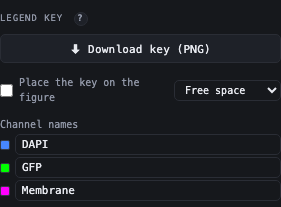
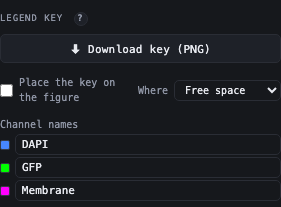
Fluorescence guide, round 5: four channels with far-red grey and indicators named, a channel renamed on its panel reaching its merge and caption, naming a merge's channels, Tab between inset fields, the Where menu

Changed region(s): [[0.0569, 0.4348, 0.2847, 0.4928], [0.427, 0.3768, 0.5979, 0.4638]]

diff --git a/docs/guides/verify/fluorescence.verify.js b/docs/guides/verify/fluorescence.verify.js
@@ -301,8 +301,12 @@ const { step, expect, btn } = L;
     const chips1 = await p.locator('#img-list > .img-item').filter({ hasNotText: 'hidden' }).locator('button.f-chan-chip').allInnerTexts();
     expect(chips1.filter(c => c === 'CellMask').length === 1 && chips1.includes('Membrane'), 'chips ' + chips1);
     // fluor5-02: the merge showing the same file takes the name too, and the toast says so
-    expect(/^Panel \w+'s channel is now CellMask — this panel only(; merge \w+ takes it for the same file’s channel)?; the other magenta panels \([^)]*\) keep Membrane\. ≡ Sync by channel now treats it as its own channel\. To rename every magenta panel, type the name under Export › Legend key › Channel names\./.test(t), 'toast: ' + t);
+    expect(/^Panel C's channel is now CellMask — this panel only; merge D takes it for the same file’s channel; the other magenta panels \(E, H, I, J\) keep Membrane\. ≡ Sync by channel now treats it as its own channel\. To rename every magenta panel, type the name under Export › Legend key › Channel names\./.test(t), 'toast: ' + t);
+    // round 5 (fluor5-01/02): the caption follows — the panel's Split-filled caption note and its merge
     await L.openSection(T, 'Export');
+    await btn(T, '✦ Generate Caption').click(); await p.waitForTimeout(600);
+    const capR = await p.locator('#caption-out').inputValue();
+    expect(/\(C\) CellMask \(magenta\)\./.test(capR) && /\(D\) Merge of DAPI \(blue\), GFP \(green\) and CellMask \(magenta\)/.test(capR) && /\(H\) Membrane \(magenta\)\./.test(capR), 'caption after the one-panel rename: ' + capR.slice(0, 700));
     const f = p.getByLabel('Name of the magenta channel');
     const both = await f.inputValue();
     // ISSUES (round 4), fixed in round 5: typing the name the other panels already have
@@ -318,7 +322,11 @@ const { step, expect, btn } = L;
     await closeAllSettings();
     const k2 = await keyText();
     expect(k2 === 'DAPI (blue); GFP (green); Membrane (magenta).', 'key text after: ' + k2);
-    return `toast "${t}"; key "${k1}"; Channel names field "${both}"; Membrane typed there: "${kSame}"; chip back to Membrane: "${k2}"`;
+    await L.openSection(T, 'Export');
+    await btn(T, '✦ Generate Caption').click(); await p.waitForTimeout(600);
+    const capB = await p.locator('#caption-out').inputValue();
+    expect(/\(C\) Membrane \(magenta\)\./.test(capB) && /\(D\) Merge of DAPI \(blue\), GFP \(green\) and Membrane \(magenta\)/.test(capB) && !/CellMask/.test(capB), 'caption after uniting: ' + capB.slice(0, 700));
+    return `toast "${t}"; caption "(C) CellMask (magenta)" and "(D) Merge of … CellMask (magenta)"; key "${k1}"; Channel names field "${both}"; Membrane typed there: "${kSame}"; caption back to Membrane; chip back to Membrane: "${k2}"`;
   });
 
   await step(T, '12. Colour-blind view › Deuteranopia (screen only), then back to Normal vision', async () => {
@@ -422,6 +430,9 @@ const { step, expect, btn } = L;
     expect(/The legend key needed free space, so the right margin grew from 16 to \d+ px/.test(t1), 'toast: ' + t1);
     const opts = await p.locator('#key-where option').allInnerTexts();
     expect(opts.join('|') === 'Free space|Top right|Top left|Bottom right|Bottom left|Right edge|Below', opts.join('|'));
+    // round 5: the place menu has a visible "Where" label
+    const whereLab = (await p.locator('label[for="key-where"]').innerText()).trim();
+    expect(whereLab === 'Where' && await p.locator('label[for="key-where"]').isVisible(), 'Where label: ' + whereLab);
     await L.openSection(T, 'Check');
     await btn(T, '✓ Check journal compliance').click();
     const rep = p.locator('#info-modal-bg'); await rep.waitFor({ state: 'visible' });
@@ -625,6 +636,15 @@ const { step, expect, btn } = L;
     await set('Name of the magenta channel', 'mScarlet-Parkin'); await set('Name of the green channel', 'mito-GFP (OMP25)');
     await btn(T, '⟳ Render').click(); await p.waitForTimeout(600);
     const fit = await p.evaluate(() => images.filter(im => im && im._tagFit && !im.hidden).map(im => formatLabel(im.label) + ' ' + im._tagFit));
+    // round 5 (fluor5-03): a merge's tag keeps clear of the inset outline drawn on it, and of its letter
+    const over = await p.evaluate(() => {
+      const ov = (a, b) => Math.min(a.x + a.w, b.x + b.w) - Math.max(a.x, b.x) > 1 && Math.min(a.y + a.h, b.y + b.h) - Math.max(a.y, b.y) > 1;
+      const tags = figTextItems.filter(t => t.kind === 'tag');
+      return { frames: _insetFrames.map(f => formatLabel(images[f.parentIdx].label)),
+        hits: _insetFrames.flatMap(f => tags.filter(t => t.idx === f.parentIdx && (ov(t.bbox, f) || (f.lbox && ov(t.bbox, f.lbox)))).map(t => t.str)) };
+    });
+    expect(over.frames.sort().join() === 'D,I' && !over.hits.length, 'tags over inset outlines: ' + JSON.stringify(over));
+    expect(fit.includes('D merge') && fit.includes('I merge'), 'D and I do not read "Merge": ' + fit);
     await L.openSection(T, 'Check');
     await btn(T, '✓ Check journal compliance').click();
     const rep = p.locator('#info-modal-bg'); await rep.waitFor({ state: 'visible' });
@@ -647,6 +667,155 @@ const { step, expect, btn } = L;
     await r.locator('button', { hasText: '×' }).first().click(); await p.waitForTimeout(400);
     expect(chip === 'mScarlet', 'chip ' + chip);
     return 'chip ' + chip;
+  });
+
+  // ---- Four channels (round 5: fluor5-05, -06, -02, -12, -13, -07). A new figure of one field:
+  // DAPI | GCaMP6s | mCherry | Cy5. Cy5 is grey, GCaMP6s keeps its name, the merge of four warns.
+  const keyText4 = () => p.evaluate(() => (document.getElementById('key-text').value || document.getElementById('key-text').textContent).trim());
+  const caption4 = async () => { await L.openSection(T, 'Export'); await btn(T, '✦ Generate Caption').click(); await p.waitForTimeout(600); return p.locator('#caption-out').inputValue(); };
+  const report = async () => {
+    await L.openSection(T, 'Check'); await btn(T, '✓ Check journal compliance').click();
+    const rep = p.locator('#info-modal-bg'); await rep.waitFor({ state: 'visible' });
+    const txt = await rep.innerText(); await p.keyboard.press('Escape');
+    const rowOf = (lab) => ((txt.match(new RegExp('\\n(.)\\n' + lab + '\\n([^\\n]*)')) || []).slice(1).join(' '));
+    return rowOf;
+  };
+  await step(T, '20. Four channels: ✕ New; DAPI, GCaMP6s, mCherry, Cy5 › 🎨 Auto-channels (Cy5 grey, GCaMP6s keeps its name) › ⊕ Merge: "(blue + green + magenta + grey)", and Channels per merge warns', async () => {
+    await btn(T, '✕ New').click(); await btn(T, /^Confirm/).click(); await p.waitForTimeout(600);
+    // a journal first: with none, a compliance row that passes is not listed
+    await L.openSection(T, 'Look'); await p.locator('#target-journal').selectOption({ label: 'eLife' }); await p.waitForTimeout(500);
+    const f4 = [
+      I.fluorTiff(path.join(inp, 'C1-Neuron_shCtrl_DAPI.tif'), 'DAPI', { seed: 31 }),
+      I.fluorTiff(path.join(inp, 'C2-Neuron_shCtrl_GCaMP6s.tif'), 'GFP', { seed: 31 }),
+      I.fluorTiff(path.join(inp, 'C3-Neuron_shCtrl_mCherry.tif'), 'CellMask', { seed: 31 }),
+      I.fluorTiff(path.join(inp, 'C4-Neuron_shCtrl_Cy5.tif'), 'DAPI', { seed: 81 }),
+    ];
+    await L.pickFiles(T, p.getByText('Drop or click to add images'), f4);
+    await p.waitForFunction(() => images.filter(Boolean).length === 4, null, { timeout: 30000 });
+    const tip = btn(T, 'Got it'); if (await tip.count()) await tip.click();
+    await btn(T, 'Auto-channels').click(); await p.waitForTimeout(500);
+    const t0 = await toast();
+    const chips = await p.locator('#img-list button.f-chan-chip').allInnerTexts();
+    const luts = await p.evaluate(() => images.filter(Boolean).map(im => im.lut).join(','));
+    expect(t0 === 'Assigned channels to 4 panels from filenames', 'Auto-channels toast: ' + t0);
+    expect(chips.join(',') === 'DAPI,GCaMP6s,mCherry,Cy5' && luts === 'blue,green,magenta,none', 'chips ' + chips + ' luts ' + luts);
+    // evidence for ISSUES: how the caption names the grey Cy5 panel before any merge
+    const cap0 = await caption4();
+    const greyCap = (cap0.match(/\(D\) [^.]*\./) || [''])[0];
+    for (const r of await p.locator('#img-list > .img-item').all()) await r.locator('input.panel-pick').check();
+    await btn(T, '⊕ Merge channels').click(); await p.waitForTimeout(800);
+    const t1 = await toast();
+    expect(/^A, B, C, D merged into A \(blue \+ green \+ magenta \+ grey\)/.test(t1), 'merge toast: ' + t1);
+    const rowOf = await report();
+    const cpm = rowOf('Channels per merge');
+    expect(/^⚠ A \(4\) — QUAREP-LiMi checklist: at most 3 channels in a merge, preferably 2; show the rest as separate greyscale panels/.test(cpm), 'Channels per merge: ' + cpm);
+    return `chips ${chips.join(', ')} (Cy5 ${luts.split(',')[3]}); "${t0}"; caption of the unmerged Cy5 panel "${greyCap}"; "${t1.split(' — ')[0]}"; Channels per merge ${cpm}`;
+  });
+
+  await step(T, '20b. ⑃ Split, Columns 5 › Channel names: the Cy5 field › MAP2 — caption "(grey)", Methods "in greyscale"; the split GCaMP6s chip › GCaMP6f renames it in the merge too', async () => {
+    const st = await openSettings(row('A'));
+    await st.locator('button', { hasText: '⑃ Split channels into panels' }).click(); await p.waitForTimeout(1000);
+    await closeAllSettings();
+    await L.openSection(T, 'Arrange');
+    await p.getByLabel('Columns', { exact: true }).fill('5'); await p.getByLabel('Columns', { exact: true }).press('Tab');
+    await p.getByLabel('Rows', { exact: true }).fill('1'); await p.getByLabel('Rows', { exact: true }).press('Tab');
+    await btn(T, 'Relabel A, B, C').click(); await p.waitForTimeout(500);
+    const lay = await p.evaluate(() => panelBounds.filter(b => images[b.idx]).map(b => formatLabel(images[b.idx].label) + ':' + ((images[b.idx].channels || []).length ? 'merge' : images[b.idx].lut)).join(' '));
+    expect(lay === 'A:blue B:green C:magenta D:none E:merge', 'row: ' + lay);
+    await L.openSection(T, 'Export');
+    const g = p.getByLabel('Name of the Cy5 picture channel');
+    await g.fill('MAP2'); await g.press('Enter'); await p.waitForTimeout(500);
+    const cap = await caption4();
+    expect(/\(D\) MAP2\./.test(cap) && /\(E\) Merge of DAPI \(blue\), GCaMP6s \(green\), mCherry \(magenta\) and MAP2 \(grey\)/.test(cap) && !/Cy5/.test(cap), 'caption: ' + cap.slice(0, 600));
+    await btn(T, '✎ Write Methods paragraph').click(); await p.waitForTimeout(500);
+    const m = await p.locator('#methods-out').inputValue();
+    expect(/MAP2 in greyscale/.test(m), 'Methods: ' + (m.match(/[^.]*greyscale[^.]*\./g) || [m.slice(0, 300)]).join(' '));
+    const k = await keyText4();
+    // the split GCaMP6s panel renamed on its chip: its merge takes the name (fluor5-02)
+    await closeAllSettings(); await L.toasts(T);
+    await row('B').locator('button.f-chan-chip').click(); await p.waitForTimeout(300);
+    await p.keyboard.press('ControlOrMeta+a'); await p.keyboard.type('GCaMP6f'); await p.keyboard.press('Enter'); await p.waitForTimeout(500);
+    const tc = (await L.toasts(T)).split(' | ').find(x => /GCaMP6f/.test(x)) || '';
+    await closeAllSettings();
+    const cap2 = await caption4();
+    expect(/merge E takes it for the same file’s channel/.test(tc), 'chip toast: ' + tc);
+    expect(/\(B\) GCaMP6f \(green\)\./.test(cap2) && /\(E\) Merge of DAPI \(blue\), GCaMP6f \(green\)/.test(cap2) && !/GCaMP6s/.test(cap2), 'caption after GCaMP6f: ' + cap2.slice(0, 600));
+    return `${lay}; key "${k}"; caption "(D) MAP2." "(E) Merge of … and MAP2 (grey)"; Methods "${(m.match(/[^.;]*MAP2 in greyscale[^.;]*/) || [''])[0].trim()}"; chip toast "${tc}"`;
+  });
+
+  await step(T, '20c. The merge\'s ⚙ › Channels: the mCherry name box › Homer1-mCherry (this merge only); × on MAP2 leaves three channels and Channels per merge passes', async () => {
+    const st = await openSettings(row('E'));
+    const names = await st.locator('input.ch-name').evaluateAll(a => a.map(x => x.getAttribute('aria-label') + '=' + x.value));
+    const box = st.getByLabel('Name of channel 3 in this merge');
+    expect(await box.inputValue() === 'mCherry', 'channel names ' + names);
+    await box.fill('Homer1-mCherry'); await box.press('Enter'); await p.waitForTimeout(500);
+    const t = await toast();
+    expect(t === 'Panel E: channel 3 is now Homer1-mCherry in this merge — its tag, the caption and Methods', 'toast: ' + t);
+    const cap = await caption4();
+    expect(/\(E\) Merge of DAPI \(blue\), GCaMP6f \(green\), Homer1-mCherry \(magenta\) and MAP2 \(grey\)/.test(cap) && /\(C\) mCherry \(magenta\)\./.test(cap), 'caption: ' + cap.slice(0, 600));
+    // fluor5-04: a grey channel in a merge is listed under its own name, not under green
+    const dr = (await report())('Display ranges by channel');
+    expect(/^✓ Same range per channel across panels ✓ \(DAPI, GCaMP6f, mCherry, MAP2\)/.test(dr) || (/^✓ Same range per channel across panels ✓/.test(dr) && /MAP2/.test(dr)), 'Display ranges: ' + dr);
+    const st2 = await openSettings(row('E'));
+    const vals = await st2.locator('input.ch-name').evaluateAll(a => a.map(x => x.value));
+    const k4 = vals.indexOf('MAP2');
+    expect(k4 >= 0, 'no MAP2 channel in the merge: ' + vals);
+    await st2.locator('button.ch-del').nth(k4).click();
+    await p.waitForTimeout(500);
+    const n = await p.evaluate(() => images.find(i => i && !i.excluded && formatLabel(i.label) === 'E').channels.length);
+    await closeAllSettings();
+    const rowOf = await report();
+    const cpm = rowOf('Channels per merge');
+    expect(n === 2 && /^✓ Every merge has at most 3 channels/.test(cpm), 'channels ' + n + '; row ' + cpm);
+    return `${names.join(', ')}; "${t}"; Display ranges ${dr}; × on MAP2 → ${1 + n} channels; Channels per merge ${cpm}`;
+  });
+
+  // round 5 (fluor5-07): an inset of a channel in the middle of a row goes to the first free cell
+  await step(T, '20d. Rows 2; right-click B (a channel mid-row) › ⧉ Add linked inset…: Put it › in the first free cell is the default; X/Y/W/H with Tab › ⧉ Add inset; no panel moves', async () => {
+    await L.openSection(T, 'Arrange');
+    await p.getByLabel('Rows', { exact: true }).fill('2'); await p.getByLabel('Rows', { exact: true }).press('Tab'); await p.waitForTimeout(400);
+    const before = await p.evaluate(() => panelBounds.filter(b => images[b.idx]).map(b => formatLabel(images[b.idx].label) + '@' + Math.round(b.x) + ',' + Math.round(b.y)).join(' '));
+    await clickPanel('B');
+    const pt = await p.evaluate(() => { const cv = document.getElementById('fig-canvas'), c = cv.getBoundingClientRect(), k = c.width / cv.width;
+      const b = panelBounds.find(q => images[q.idx] && formatLabel(images[q.idx].label) === 'B'); return { x: c.x + (b.x + b.w / 2) * k, y: c.y + (b.y + b.h / 2) * k }; });
+    await p.mouse.click(pt.x, pt.y, { button: 'right' }); await p.waitForTimeout(300);
+    await p.locator('body *:visible').filter({ hasText: /^⧉\s+Add linked inset…$/ }).last().click();
+    const m = p.locator('#crop-modal'); await m.waitFor({ state: 'visible' });
+    const vis = await m.locator('#inset-place-row').isVisible();
+    const sel = await m.locator('#inset-place').inputValue();
+    const optTxt = (await m.locator('#inset-place option:checked').innerText()).trim();
+    expect(vis && sel === 'free' && optTxt === 'in the first free cell (no panel moves)', 'Put it: ' + JSON.stringify({ vis, sel, optTxt }));
+    for (const [k, v] of [['x', 300], ['y', 80], ['w', 128], ['h', 128]]) {
+      await m.locator('#crop-px-' + k).fill(String(v)); await m.locator('#crop-px-' + k).press('Tab');
+    }
+    expect(await m.isVisible(), 'the dialog closed while typing the region');
+    // fluor5-09: what Enter does in a px field (the guide says Tab)
+    await m.locator('#crop-px-h').press('Enter'); await p.waitForTimeout(600);
+    const enterAdds = !(await m.isVisible());
+    if (!enterAdds) { await m.locator('button', { hasText: '⧉ Add inset' }).click(); await p.waitForTimeout(700); }
+    const t = await toast();
+    const after = await p.evaluate(() => panelBounds.filter(b => images[b.idx] && images[b.idx].insetOf == null).map(b => formatLabel(images[b.idx].label) + '@' + Math.round(b.x) + ',' + Math.round(b.y)).join(' '));
+    expect(/^Inset F of B placed in the first free cell — no other panel moved/.test(t), 'toast: ' + t);
+    expect(after === before, 'panels moved: ' + before + ' → ' + after);
+    return `Put it: "${optTxt}"; Enter in H ${enterAdds ? 'added the inset at once' : 'did not add the inset (⧉ Add inset clicked)'}; "${t.split(' — ').slice(0, 2).join(' — ')}"; A–E stay at ${after}`;
+  });
+
+  // round 5 (fluor5-15): under a tall grid the key goes under the panels, in a row
+  await step(T, '20e. Columns 2, Rows 3, eLife › Export › Place the key on the figure: the bottom margin grows and the key runs in a row under the panels', async () => {
+    await L.openSection(T, 'Arrange');
+    await p.getByLabel('Columns', { exact: true }).fill('2'); await p.getByLabel('Columns', { exact: true }).press('Tab');
+    await p.getByLabel('Rows', { exact: true }).fill('3'); await p.getByLabel('Rows', { exact: true }).press('Tab'); await p.waitForTimeout(400);
+    await L.openSection(T, 'Export'); await L.toasts(T);
+    await p.getByLabel('Place the key on the figure').check(); await p.waitForTimeout(900);
+    const tk = (await L.toasts(T)).split(' | ').find(x => /legend key needed free space/.test(x)) || '';
+    const g = await p.evaluate(() => {
+      const a = annotations.find(a => a && a.type === 'legend'), P = panelBounds.filter(b => images[b.idx]);
+      const bottom = Math.max(...P.map(b => b.y + b.h)), fs = _keyFs(), Lk = _keyLayout(_figureKey(), fs, _keyFont(fs));
+      return { under: a.yf * canvasLogicalH >= bottom - 0.5, rows: _figureKey().length, cols: Lk.cols };
+    });
+    expect(/the bottom margin grew from \d+ to \d+ px/.test(tk), 'toast: ' + tk);
+    expect(g.under && g.cols === g.rows, 'key placement ' + JSON.stringify(g));
+    return `"${tk.split(' — ')[0]}"; key under the panels, ${g.rows} entries in one row`;
   });
 
   await L.finish(T);

diff --git a/docs/guides/fluorescence.md b/docs/guides/fluorescence.md
@@ -8,10 +8,10 @@ A grid with one row per condition, each row reading DAPI | GFP | membrane | merg
 
 ## You need
 
-- One 16-bit TIFF per channel per field, as Fiji's *Image › Color › Split Channels* saves them: `C1-HeLa_DMSO_60x_DAPI.tif`, `C2-HeLa_DMSO_60x_GFP.tif`, `C3-HeLa_DMSO_60x_CellMask.tif`, and the same for each condition. FigureLab reads the channel from the last word of the file name. Named fluorophores keep their own name: a file ending `_mScarlet.tif` gets the chip **mScarlet**.
+- One 16-bit TIFF per channel per field, as Fiji's *Image › Color › Split Channels* saves them: `C1-HeLa_DMSO_60x_DAPI.tif`, `C2-HeLa_DMSO_60x_GFP.tif`, `C3-HeLa_DMSO_60x_CellMask.tif`, and the same for each condition. FigureLab reads the channel from the last word of the file name. Named fluorophores and indicators keep their own name: a file ending `_mScarlet.tif` gets the chip **mScarlet**, and `_GCaMP6s.tif` gets **GCaMP6s** in green (GECO, RCaMP and other indicators are recognised too).
 - Files saved by Fiji or ImageJ (or OME-TIFFs) carry their pixel size, so you do not need to calibrate. Files without it need **🔬 Calibrate from image** (see [phage-and-microbiology.md](phage-and-microbiology.md)).
 
-The steps below were followed on two conditions (DMSO, BafA1) of three channels each, and a second DMSO field for task 10.
+The steps below were followed on two conditions (DMSO, BafA1) of three channels each, a second DMSO field for task 10, and a four-channel field (DAPI, GCaMP6s, mCherry, Cy5) for the four-channel notes.
 
 ## 1. Import the channels
 
@@ -26,6 +26,8 @@ The steps below were followed on two conditions (DMSO, BafA1) of three channels 
 2. To change one panel's colour, open its **⚙** and click a button under **Fluorescence LUT** (**Off**, **Fire**, **GFP**, **Cyan**, **Mag**, **Red**, **Yel**, **Org**, **DAPI**, **Viridis**, **Magma**, **Inferno**, **Cividis**).
 
 Use magenta, not red, as green's partner: magenta/green stays distinguishable for red–green colour-blind readers, and merged overlap shows as white.
+
+**Four channels.** A far-red file (`_Cy5.tif`, Alexa 647) is shown in grey, on its own panels and in merges, with the chip **Cy5**. Merging DAPI, GCaMP6s, mCherry and Cy5 gives the toast "… merged into A (blue + green + magenta + grey)". The compliance check then warns on **Channels per merge**: "A (4) — QUAREP-LiMi checklist: at most 3 channels in a merge, preferably 2; show the rest as separate greyscale panels". If your journal follows that checklist, leave the fourth channel out of the merge (its × in the merge's **⚙ › Channels**) and show it in its own grey panel. The caption calls it "Cy5 (grey)" in a merge, and Methods says it is shown "in greyscale". Rename it under **Export › Legend key › Channel names** (task 7) like any other channel.
 
 ## 3. Match display ranges in camera counts
 
@@ -64,8 +66,8 @@ To remove the hidden source panels for good, use **🗑 Delete hidden panels…*
 
 1. Click the merge panel on the canvas (D).
 2. Open **Check** (it starts collapsed: click its heading) and click **⧉ Add linked inset…**. The dialog title says "⧉ Inset of D"; check it names the panel you meant. Right-clicking the panel and choosing **⧉ Add linked inset…** opens the same dialog.
-3. Drag a box on the picture, or type the region under **px**: **X** `300`, **Y** `80`, **W** `128`, **H** `128`. The line under the picture says how the region will print. With no journal or printed width chosen yet, the test read "region 128×128 px, prints at about 41 ppi in a cell like its panel's — under 300: 300 ppi would need a region 938 px wide, more than the 512 px image — the cell prints too large for a zoom; choose a narrower printed width … or a journal's column". A zoom always enlarges its pixels; if your journal checks resolution, choose the journal (task 8) before you size the region.
-4. Click **⧉ Add inset**. The inset is placed right after its parent, and an outline with the inset's letter appears on the parent.
+3. Drag a box on the picture, or type the region under **px**: **X** `300`, **Y** `80`, **W** `128`, **H** `128`, pressing <kbd>Tab</kbd> to go from one field to the next. The line under the picture says how the region will print. With no journal or printed width chosen yet, the test read "region 128×128 px, prints at about 41 ppi in a cell like its panel's — under 300: 300 ppi would need a region 938 px wide, more than the 512 px image — the cell prints too large for a zoom; choose a narrower printed width … or a journal's column". A zoom always enlarges its pixels; if your journal checks resolution, choose the journal (task 8) before you size the region.
+4. Click **⧉ Add inset**. The inset is placed right after its parent, and an outline with the inset's letter appears on the parent. An inset of a panel in the middle of a row (a channel, not the merge at the row's end) would push the rest of the row along, so when the grid has a free cell the dialog shows **Put it** › **in the first free cell (no panel moves)**, and that is the default; the toast then reads "Inset … placed in the first free cell — no other panel moved". Choose **right after its panel** to keep it beside its parent.
 5. Repeat for the other merge (H).
 6. In **Arrange**, set **Columns** to `5` and **Rows** to `2`, then click **🔤 Relabel A, B, C…**. Each row now ends merge | zoom.
 
@@ -80,8 +82,9 @@ An inset follows its parent's adjustments, so its display range stays the parent
 The tags on the panels, the legend key and the legend text use one name per channel colour.
 
 - **For every panel at once:** open **Export**. Under **Legend key › Channel names** there is one field per colour. Type `Membrane` in the magenta field and press Enter. Every magenta tag, the merges' tags and the key change.
-- **For one panel:** click the channel chip in its row of the image list (or open **⚙** and use **Channel**). The cursor lands in that panel's **Channel** field, and a name typed there renames that panel only. The key then shows both names ("DAPI (blue); GFP (green); Membrane / CellMask (magenta)."), and so does the **Channel names** field for that colour; typing one name there gives every panel of the colour that name. This holds after you named the colour under **Channel names** too, and the toast says so: "Panel C's channel is now CellMask — this panel only; the other magenta panels (…) keep Membrane. ≡ Sync by channel now treats it as its own channel. To rename every magenta panel, type the name under Export › Legend key › Channel names." To give that panel the others' name again, type it in the panel's own chip (`Membrane`): typing the name the colour already has under **Channel names** does not change it back (see [`verify/ISSUES.md`](verify/ISSUES.md)).
-- **Long names on merge tags.** A merge's tag lists its channels beside the panel letter. When long names (`mScarlet-Parkin`, `mito-GFP (OMP25)`) do not fit, the tag wraps onto more lines, or reads "Merge" if even that does not fit; the key and the caption still name every channel. The compliance report's **Text over text** row lists what was fitted ("Tags fitted to clear their letters: D wrapped to more lines; E wrapped to more lines; … — type a tag in ⚙ › Tag for your own wording."). For your own short tag, type it in the merge's **⚙ › Tag (shown on the panel)**.
+- **For one panel:** click the channel chip in its row of the image list (or open **⚙** and use **Channel**). The cursor lands in that panel's **Channel** field, and a name typed there renames that panel only, together with the same file's channel in the merge it was split from. The key then shows both names ("DAPI (blue); GFP (green); Membrane / CellMask (magenta)."), and so does the **Channel names** field for that colour. After you named the colour under **Channel names**, the toast says what changed: "Panel C's channel is now CellMask — this panel only; merge D takes it for the same file’s channel; the other magenta panels (E, H, I, J) keep Membrane. ≡ Sync by channel now treats it as its own channel. To rename every magenta panel, type the name under Export › Legend key › Channel names." The caption and Methods follow: "(C) CellMask (magenta)" and "(D) Merge of DAPI (blue), GFP (green) and CellMask (magenta)". The caption note that ⑃ Split filled in follows the new name; a note you typed yourself is kept. To give every panel of the colour one name again, type it under **Channel names**, even if it is the name the other panels already have (`Membrane`).
+- **A merge's own channels.** A merge's **⚙ › Channels (screen blend)** has a name box beside each added channel ("Name of channel 2 in this merge"). A name typed there renames that channel in this merge only, in its tag, the caption and Methods, and the toast says so: "Panel E: channel 3 is now Homer1-mCherry in this merge — its tag, the caption and Methods".
+- **Long names on merge tags.** A merge's tag lists its channels beside the panel letter. When long names (`mScarlet-Parkin`, `mito-GFP (OMP25)`) do not fit, the tag wraps onto more lines, or reads "Merge" if even that does not fit; the key and the caption still name every channel. A merge's tag also keeps clear of the outline of an inset drawn on the merge, and of its letter: here merges D and I read "Merge" beside their inset outlines. The compliance report's **Text over text** row lists what was fitted ("Tags fitted to clear their letters: D wrapped to more lines; E wrapped to more lines; … — type a tag in ⚙ › Tag for your own wording."). For your own short tag, type it in the merge's **⚙ › Tag (shown on the panel)**.
 
 ![Export › Legend key: Download key, the Place the key on the figure switch with its place menu, and one Channel names field per colour](img/fluorescence-channel-names.png)
 
@@ -95,8 +98,8 @@ The tags on the panels, the legend key and the legend text use one name per chan
 
 ## 9. Channel key and export
 
-1. In **Export**, tick **Place the key on the figure**. The key goes into free space (a margin, an empty cell or a free corner), never over a panel, letter or heading. This figure has none, so the right margin grows to make room and a toast says so: "The legend key needed free space, so the right margin grew from 16 to 162 px — it sits there without covering anything." (at eLife's 183 mm).
-2. To put it somewhere else, choose a place in the menu beside the switch (it has no label on screen; the toasts call it **Where**): **Free space**, **Top right**, **Top left**, **Bottom right**, **Bottom left**, **Right edge** or **Below**. You can also drag it. The compliance check's **Legend key on the figure** row says whether it covers anything.
+1. In **Export**, tick **Place the key on the figure**. The key goes into free space (a margin, an empty cell or a free corner), never over a panel, letter or heading. This figure has none, so a margin grows to make room (here the right one; under a tall grid it is the bottom one, with the key in a row under the panels) and a toast says so: "The legend key needed free space, so the right margin grew from 16 to 162 px — it sits there without covering anything." (at eLife's 183 mm).
+2. To put it somewhere else, choose a place in the **Where** menu beside the switch: **Free space**, **Top right**, **Top left**, **Bottom right**, **Bottom left**, **Right edge** or **Below**. You can also drag it. The compliance check's **Legend key on the figure** row says whether it covers anything.
 3. Click **⬇ Download key** for the standalone key file. It is written in the format of your last export (the button shows which, e.g. "⬇ Download key (PNG)").
 4. Under the caption helper, **Legend text starter** reads "DAPI (blue); GFP (green); Membrane (magenta)." Copy it into your legend. A channel shown in grey on its own panels and in colour in the merges is one entry: with both GFP panels set to **⚙ › Fluorescence LUT › Off**, it read "DAPI (blue); Membrane (magenta); GFP (greyscale; green in merges)."
 5. Click **✎ Write Methods paragraph**. It states the display ranges in native values, e.g. "GFP 400–12000 (panels B, D, E, G, I and J)". **✦ Generate Caption** gives the same ranges, grouped by channel: "Display ranges in the files’ own 16-bit values: DAPI 0–10000 (panels A, D, E, F, I and J); GFP 400–12000 …", and names each merge by its channels: "(D) Merge of DAPI (blue), GFP (green) and Membrane (magenta)."
@@ -130,8 +133,9 @@ Pick 16-bit files: an 8-bit file (a PNG, a JPEG) cannot hold a range in counts, 
 - **A panel took the wrong colour.** Auto-channels reads the last word of the file name. Rename the file, or set the colour under **⚙ › Fluorescence LUT**.
 - **≡ Sync by channel changed nothing on another panel.** That panel has a different channel name. Check the chips in the image list, or name both the same under **⚙ › Channel**.
 - **Some panels are outside the grid after a split.** Set **Arrange › Columns** to the number of panels in a row (4 here), as the split's toast says.
-- **The key is not where you want it.** Pick a place in the menu beside **Export › Legend key › Place the key on the figure**, or drag it.
-- **The key lists one colour as "Membrane / CellMask".** One panel's channel has another name. Type one new name in **Export › Legend key › Channel names**, or type the other panels' name in that panel's own chip: typing the name the colour already has under Channel names does not change that panel (see [`verify/ISSUES.md`](verify/ISSUES.md)).
+- **The key is not where you want it.** Pick a place in the **Where** menu beside **Export › Legend key › Place the key on the figure**, or drag it.
+- **The key lists one colour as "Membrane / CellMask".** One panel's channel has another name. Type the name you want in **Export › Legend key › Channel names**: every panel of that colour takes it.
+- **The caption still names a channel by its old name.** Check that panel's **⚙ › Caption note**: a note you typed yourself is kept when the channel is renamed. Retype or clear it.
 - **A merge still shows the old field after ⇄ Replace image.** Replace swaps its first channel only; swap the others with **⇄** in its **⚙ › Channels**.
 - **A replace toast says the display range "cannot be kept".** The new file is 8-bit. Undo and pick the 16-bit TIFF.
 - **A channel tag fails Text contrast.** Click the row's **Auto contrast**: the tag gets a dark chip and keeps its colour.
